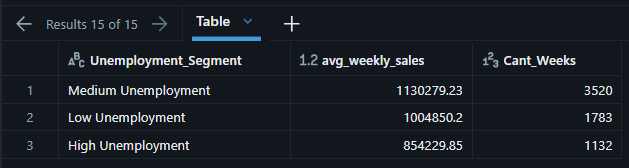
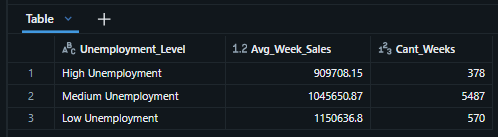
a

diff --git a/README.md b/README.md
@@ -309,54 +309,71 @@ Las mayores ventas están fuertemente concentradas alrededor de periodos comerci
 
 ¿Las tiendas presentan diferentes niveles de ventas cuando el desempleo es bajo, medio o alto?
 
-Primero analicemos cuanto ha sido el nivel máximo, mínimo y promedio de desempleo:
-
 ```sql
+with unemployment_stats as (
+  select 
+    ROUND(MAX(unemployment),2) as MAX_UNE,
+    ROUND(min(unemployment),2) as MIN_UNE,
+    ROUND(avg(unemployment),2) as AVG_UNE
+  from walmart_sales.default.walmart_sales
+)
 select 
-  ROUND(MAX(unemployment),2) as MAX_UNE,
-  ROUND(min(unemployment),2) as MIN_UNE,
-  ROUND(avg(unemployment),2) as AVG_UNE
-from walmart_sales.default.walmart_sales;
-```
-![IMAGEN](./picture/13.%20MAX,%20MIN,%20AVG%20UNEMPLOYMENT.png)
-
-
-Ahora, analicemos ventas de acuerdo al nivel de desempleo.
-
-```sql
-select
   CASE
-    WHEN Unemployment < 7 THEN 'Low Unemployment'
-    WHEN Unemployment < 9 THEN 'Medium Unemployment'
-    ELSE 'High Unemployment'
-  END AS Unemployment_Segment,
-  ROUND(AVG(Weekly_Sales), 2) AS avg_weekly_sales,
-  COUNT(*) AS Cant_Weeks
-from walmart_sales.default.walmart_sales
-GROUP BY
-    CASE
-        WHEN Unemployment < 7 THEN 'Low Unemployment'
-        WHEN Unemployment < 9 THEN 'Medium Unemployment'
-        ELSE 'High Unemployment'
-    END
-ORDER BY avg_weekly_sales DESC;
+    WHEN Unemployment < (us.MIN_UNE + us.AVG_UNE) / 2 THEN 'Low Unemployment'
+    WHEN Unemployment < (us.MAX_UNE + us.AVG_UNE) / 2 THEN 'Medium Unemployment'
+    ELSE 'High Unemployment' 
+  END AS Unemployment_Level,
+  ROUND(avg(ws.Weekly_Sales),2) as Avg_Week_Sales,
+  Count(*) as Cant_Weeks
+from walmart_sales.default.walmart_sales ws
+cross join unemployment_stats us
+group by 
+  CASE
+    WHEN Unemployment < (us.MIN_UNE + us.AVG_UNE) / 2 THEN 'Low Unemployment'
+    WHEN Unemployment < (us.MAX_UNE + us.AVG_UNE) / 2 THEN 'Medium Unemployment'
+    ELSE 'High Unemployment' 
+  END
+order by avg_week_sales;
 ```
 
 ![IMAGEN](./picture/14.%20Analizando%20ventas%20de%20acuerdo%20al%20desempleo.png)
 
-Se puede tener como conclusiones:
+Se puede tener como conclusión a mayor nivel de desempleo, las ventas promedio semanales disminuyen.
 
-  - Las ventas semanales promedio tienden a ser menores cuando el nivel de desempleo es alto.
-  - Sin embargo, un nivel bajo de desempleo no necesariamente se traduce en mayores ventas semanales promedio.
+### 10. Ventas promedio según precio del combustible
 
-### 10. 
+¿Cómo se comportan las ventas cuando el precio del combustible es bajo, medio o alto?
 
+```SQL
+WITH Fuel_Stats AS (
+  SELECT
+    MIN(Fuel_Price) AS min_fp,
+    AVG(Fuel_Price) AS avg_fp,
+    MAX(Fuel_Price) AS max_fp
+  FROM walmart_sales.default.walmart_sales
+)
+SELECT
+    CASE
+        WHEN Fuel_Price < (s.min_fp + s.avg_fp) / 2 THEN 'Low Fuel Price'
+        WHEN Fuel_Price < (s.avg_fp + s.max_fp) / 2 THEN 'Medium Fuel Price'
+        ELSE 'High Fuel Price'
+    END AS fuel_price_level,
+    ROUND(AVG(Weekly_Sales), 2) AS avg_week_sales,
+    COUNT(*) AS Cant_Weeks
+FROM walmart_sales.default.walmart_sales
+CROSS JOIN Fuel_Stats s
+GROUP BY
+    CASE
+        WHEN Fuel_Price < (s.min_fp + s.avg_fp) / 2 THEN 'Low Fuel Price'
+        WHEN Fuel_Price < (s.avg_fp + s.max_fp) / 2 THEN 'Medium Fuel Price'
+        ELSE 'High Fuel Price'
+    END
+ORDER BY avg_week_sales DESC;
+```
 
+![IMAGEN](./picture/15.%20Ventas%20promedio%20según%20precio%20del%20combustible.png)
 
-
-
-
-
+A diferencia de la consulta anterior, a mayor precio del combustible, se registra un ligero incremento en las ventas semanales promedio.
 
 
 
